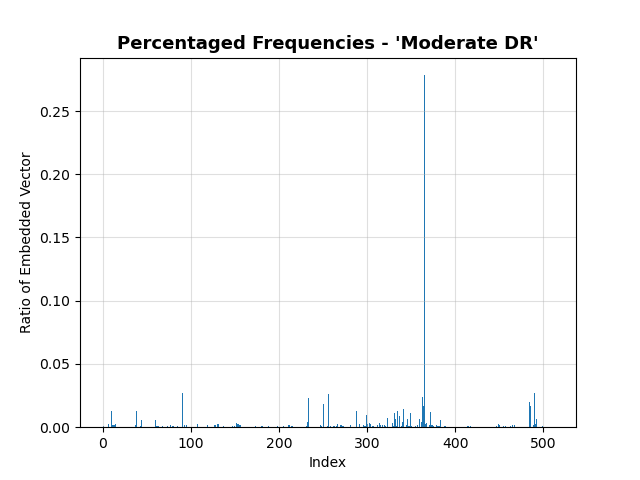
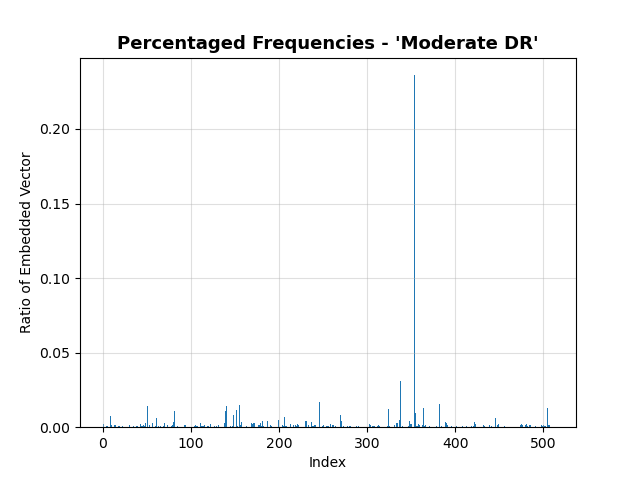
vq_vae2

diff --git a/utils/introspection.py b/utils/introspection.py
@@ -333,17 +333,17 @@ def visualize_latent_space(test_data, img_folder, csv, vq_vae,
                 d = d.permute(0, 3, 1, 2).float().to(device)
 
                 if mode == Mode.vq_vae_2:
-                    indices_bottom = vq_vae.encode(d)
-                    indices_bottom = indices_bottom.cpu().detach().numpy().astype(np.uint16)
-                    counts_to_add = np.bincount(indices_bottom.ravel(), minlength=num_emb)
+                    indices = vq_vae.encode(d)
+                    indices = indices.cpu().detach().numpy().astype(np.uint16).ravel()
+                    counts_to_add = np.bincount(indices, minlength=num_emb)
                     counts = np.add(counts, counts_to_add)
                 else:
                     indices = vq_vae.encode(d)
-                    indices = indices.cpu().detach().numpy().astype(np.uint16)
-                    counts_to_add = np.bincount(indices.ravel(), minlength=num_emb)
+                    indices = indices.cpu().detach().numpy().astype(np.uint16).ravel()
+                    counts_to_add = np.bincount(indices, minlength=num_emb)
                     counts = np.add(counts, counts_to_add)
 
-        plt.hist(counts, bins=np.arange(num_emb), density=True, label=disease_states[j])
+        plt.hist(indices, bins=np.arange(num_emb), density=True, label=disease_states[j])
 
         # Normalize counts
         histograms[j] = np.divide(counts, np.sum(counts))
@@ -382,6 +382,8 @@ def visualize_latent_space(test_data, img_folder, csv, vq_vae,
         plt.show(block=False)
         plt.pause(2)
         plt.close()
+
+
 
 
 
